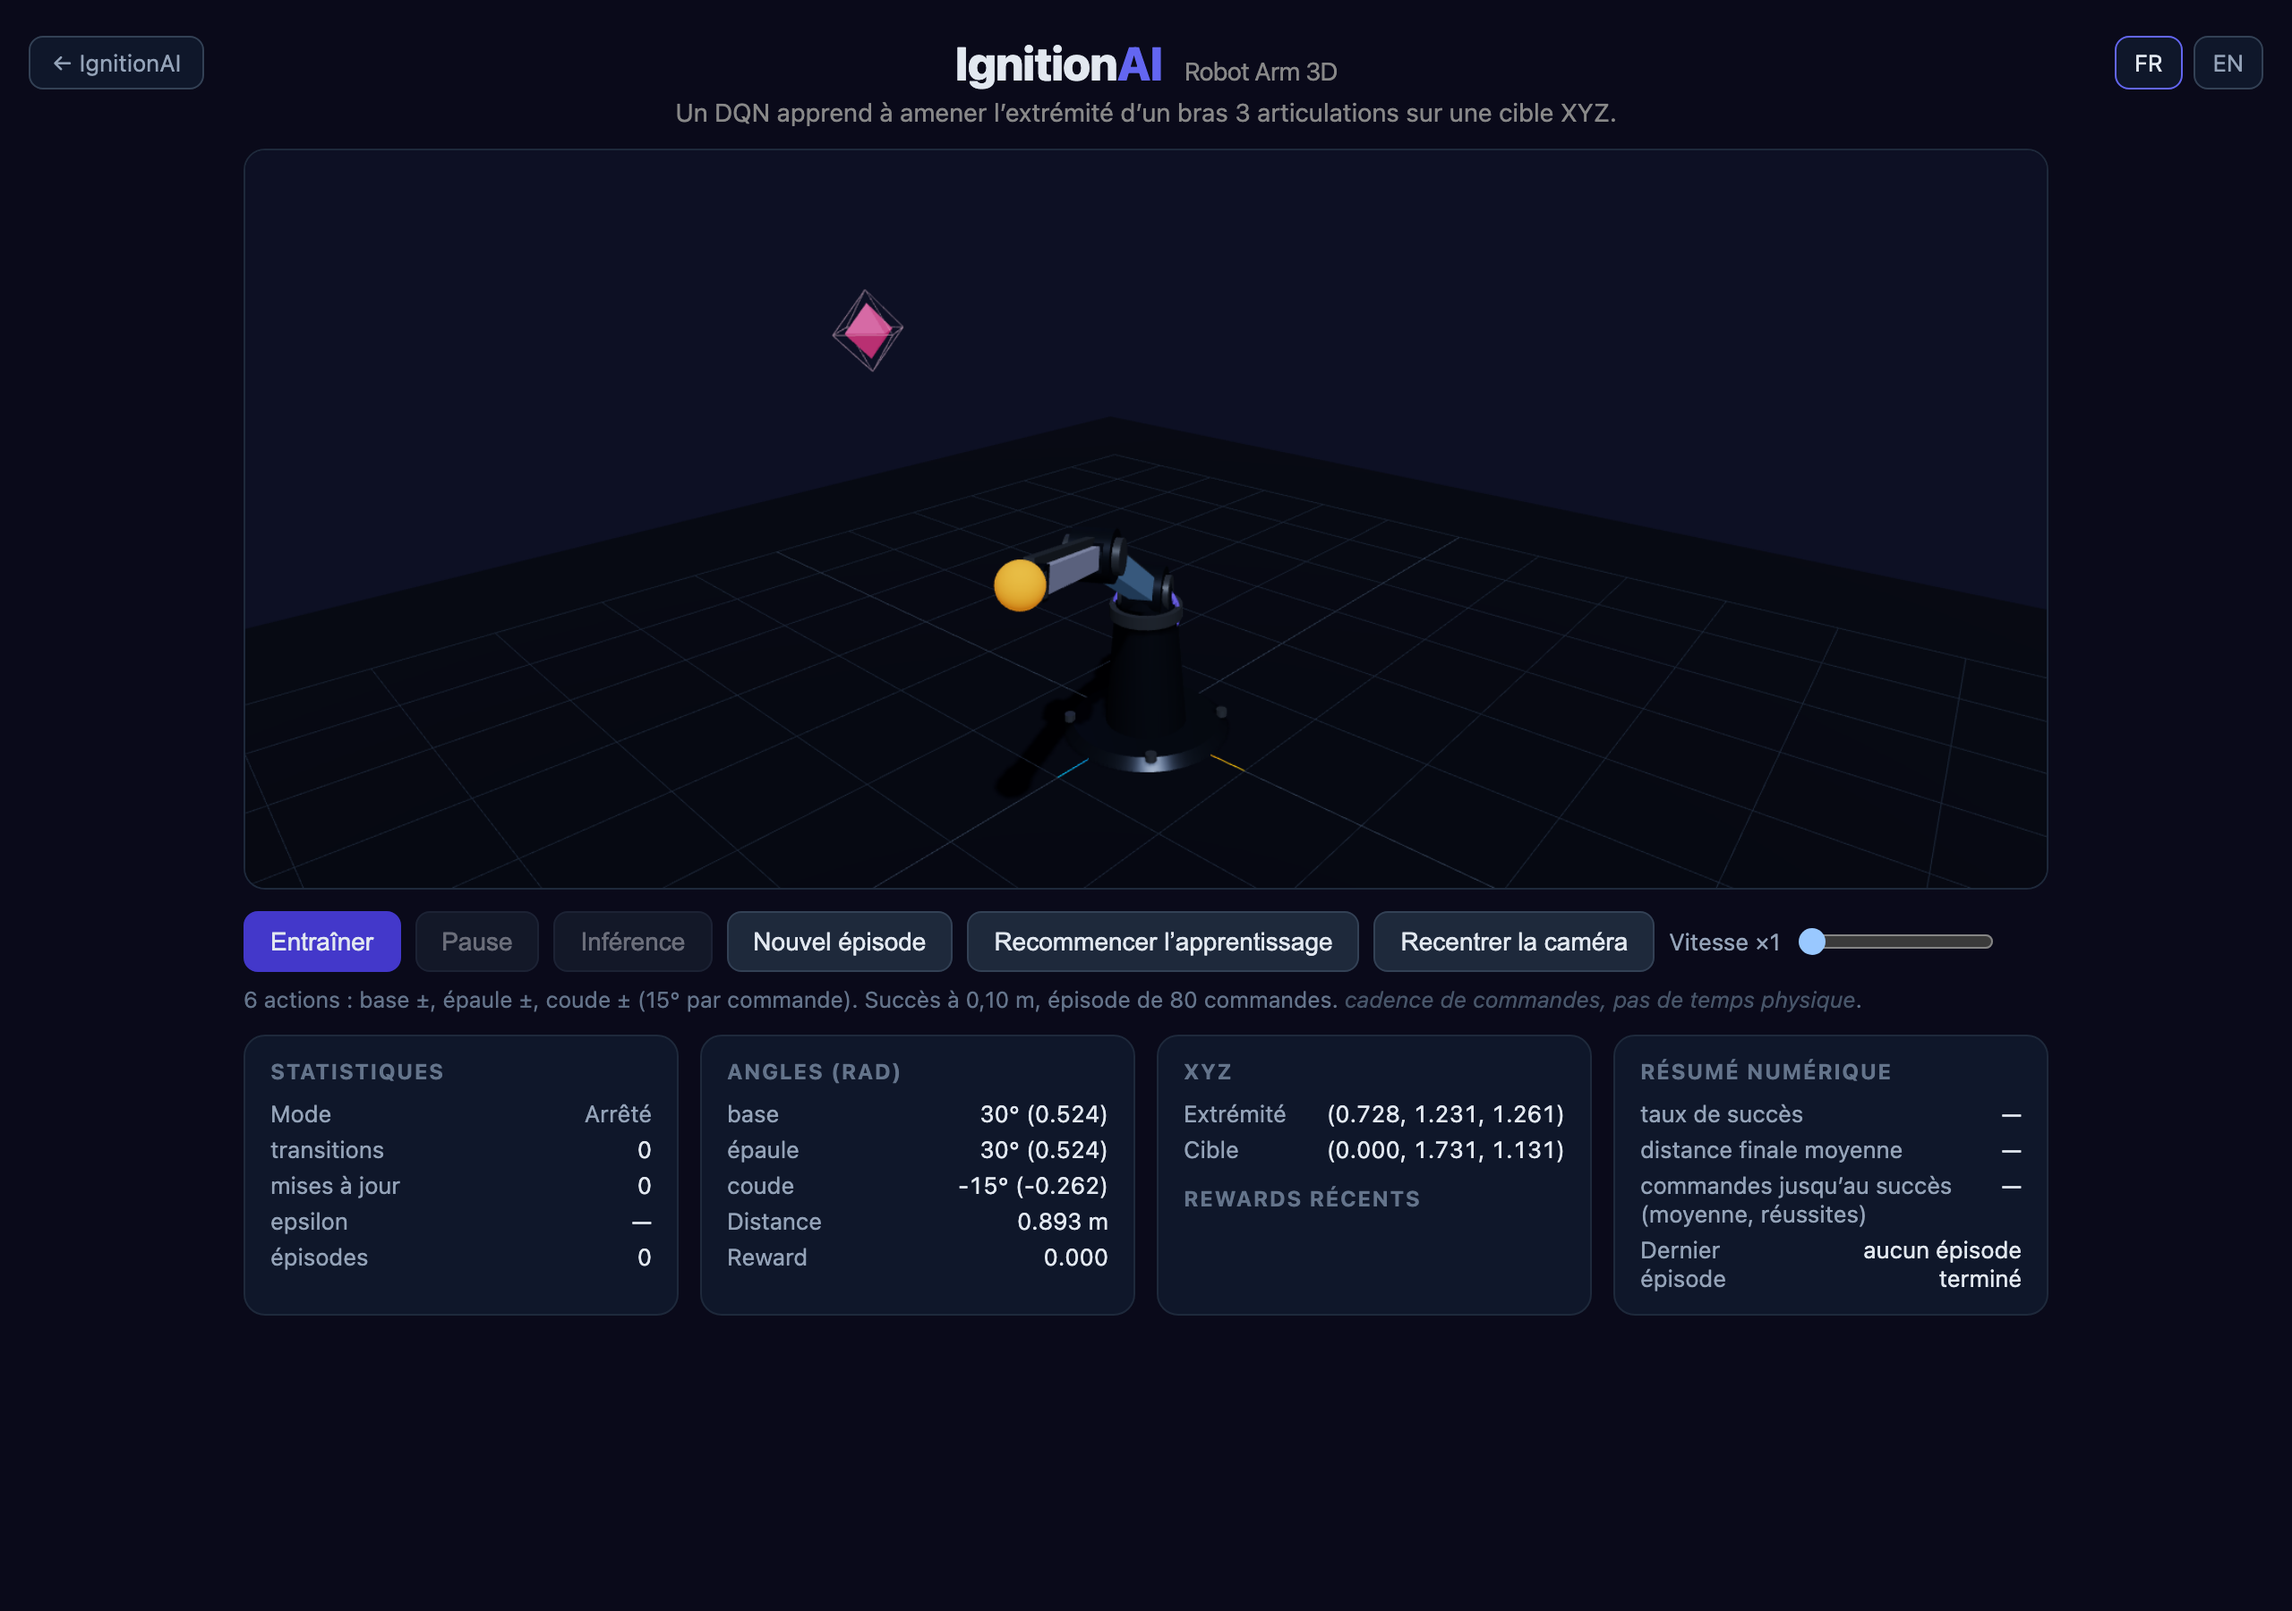
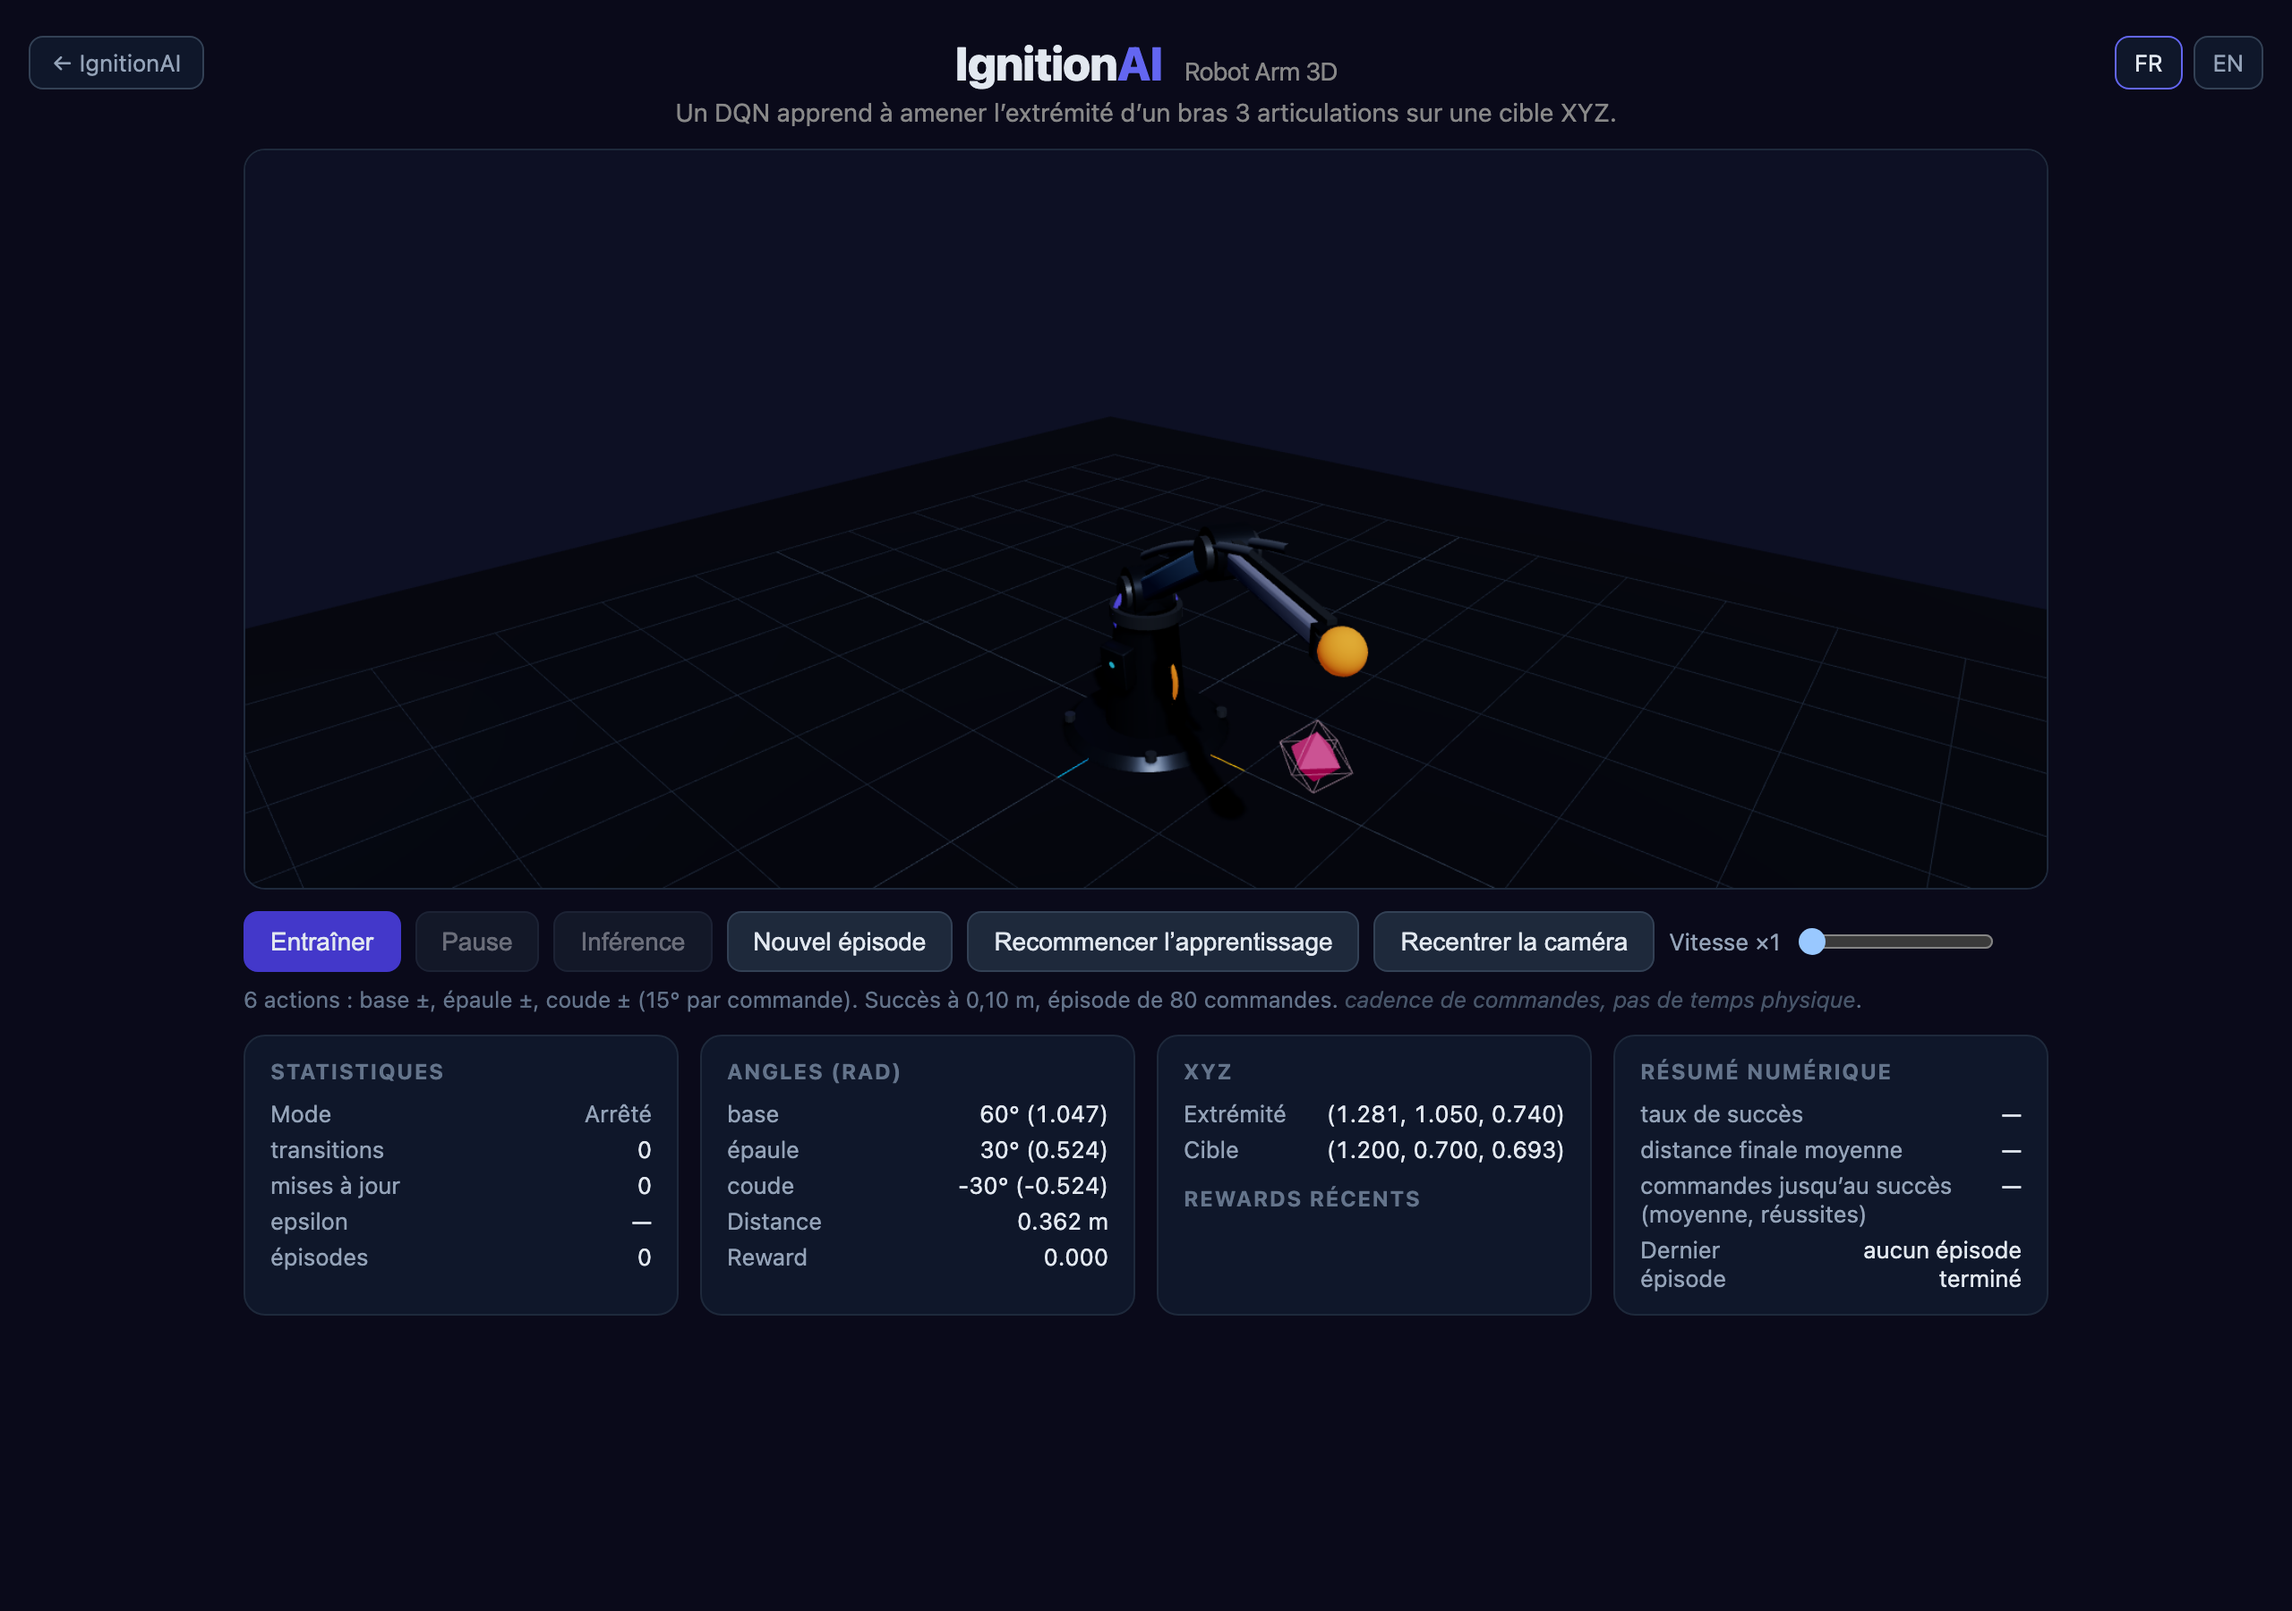
feat(demo-robot-arm): rounded links, flexing elbow cables, control box, fill lighting
- RoundedBox links, elbow cables (tube along a sagging bezier, follow q2),
  pedestal safety ring + control box with status LED, hemisphere + fill lights
- article captures refreshed on the final model (real runs, 0 console errors)

diff --git a/packages/demo-robot-arm/src/Scene3D.tsx b/packages/demo-robot-arm/src/Scene3D.tsx
@@ -1,6 +1,7 @@
 import { useEffect, useRef, type ComponentRef } from 'react';
 import { Canvas } from '@react-three/fiber';
-import { OrbitControls } from '@react-three/drei';
+import { OrbitControls, RoundedBox } from '@react-three/drei';
+import { QuadraticBezierCurve3, Vector3 } from 'three';
 import { L1, L2, PIVOT_Y, SUCCESS_DISTANCE } from './robot-arm-env';
 import { useDemoStore } from './store';
 import { makeT } from './i18n';
@@ -26,14 +27,13 @@ function ServoJoint({ radius = 0.105, length = 0.15 }: { radius?: number; length
   );
 }
 
-/** Rectangular link with a lighter top spine and end collars. */
+/** Rectangular link (rounded edges) with a lighter top spine and end collars. */
 function Link({ length, width, color }: { length: number; width: number; color: string }) {
   return (
     <group>
-      <mesh position={[0, 0, length / 2]} castShadow>
-        <boxGeometry args={[width, width, length]} />
+      <RoundedBox args={[width, width, length]} radius={0.018} smoothness={4} position={[0, 0, length / 2]} castShadow>
         <meshStandardMaterial color={color} metalness={0.45} roughness={0.5} />
-      </mesh>
+      </RoundedBox>
       <mesh position={[0, width / 2 + 0.012, length / 2]} castShadow>
         <boxGeometry args={[width * 0.4, 0.024, length * 0.84]} />
         <meshStandardMaterial {...LIGHT_METAL} />
@@ -45,6 +45,29 @@ function Link({ length, width, color }: { length: number; width: number; color: 
         </mesh>
       ))}
     </group>
+  );
+}
+
+/**
+ * Flexible cable running from segment 1 to segment 2; the sag follows the
+ * elbow angle so it visibly flexes when the joint moves.
+ */
+function ElbowCable({ q2, side }: { q2: number; side: 1 | -1 }) {
+  const a = -q2;
+  const start = new Vector3(side * 0.052, 0.11, 0.22);
+  const end = new Vector3(
+    side * 0.052,
+    0.11 * Math.cos(a) - 0.3 * Math.sin(a),
+    L1 + 0.11 * Math.sin(a) + 0.3 * Math.cos(a),
+  );
+  const mid = start.clone().add(end).multiplyScalar(0.5);
+  mid.y += 0.05 + 0.1 * (1 - Math.cos(q2)); // sag grows as the elbow folds
+  const curve = new QuadraticBezierCurve3(start, mid, end);
+  return (
+    <mesh castShadow>
+      <tubeGeometry args={[curve, 16, 0.016, 8]} />
+      <meshStandardMaterial color="#7d8aa0" metalness={0.3} roughness={0.6} />
+    </mesh>
   );
 }
 
@@ -79,6 +102,20 @@ function Arm() {
         <cylinderGeometry args={[0.145, 0.145, 0.05, 24]} />
         <meshStandardMaterial {...LIGHT_METAL} />
       </mesh>
+      {/* amber safety stripe + control box with status LED */}
+      <mesh position={[0, 0.24, 0]}>
+        <torusGeometry args={[0.155, 0.012, 10, 32]} />
+        <meshStandardMaterial color="#f59e0b" emissive="#b45309" emissiveIntensity={0.55} />
+      </mesh>
+      <group position={[0, 0.34, 0.16]} rotation={[0.12, 0, 0]}>
+        <RoundedBox args={[0.13, 0.17, 0.07]} radius={0.012} smoothness={4} castShadow>
+          <meshStandardMaterial {...DARK_METAL} />
+        </RoundedBox>
+        <mesh position={[0, 0.02, 0.037]}>
+          <circleGeometry args={[0.014, 12]} />
+          <meshStandardMaterial color={reached ? '#4ade80' : '#22d3ee'} emissive={reached ? '#16a34a' : '#0e7490'} emissiveIntensity={1.2} />
+        </mesh>
+      </group>
 
       {/* Arm: yaw (base) → pitch (shoulder) → relative pitch (elbow) */}
       <group position={[0, PIVOT_Y, 0]} rotation={[0, q0, 0]}>
@@ -94,6 +131,8 @@ function Arm() {
         <ServoJoint />
         <group rotation={[-q1, 0, 0]}>
           <Link length={L1} width={0.09} color="#93c5fd" />
+          <ElbowCable q2={q2} side={1} />
+          <ElbowCable q2={q2} side={-1} />
           <group position={[0, 0, L1]}>
             <ServoJoint radius={0.085} length={0.13} />
           </group>
@@ -154,10 +193,10 @@ function SceneContent() {
   return (
     <>
       <color attach="background" args={['#0d1024']} />
-      <ambientLight intensity={0.6} />
+      <hemisphereLight args={['#5b6b9e', '#141824', 0.55]} />
       <directionalLight
         position={[4, 6, 3]}
-        intensity={1.5}
+        intensity={1.4}
         castShadow
         shadow-mapSize={[1024, 1024]}
         shadow-camera-far={20}
@@ -167,6 +206,7 @@ function SceneContent() {
         shadow-camera-bottom={-4}
       />
       <pointLight position={[-3, 3, -2]} intensity={0.25} color="#6366f1" />
+      <pointLight position={[-2, 1.2, 2.5]} intensity={0.35} color="#93c5fd" />
 
       {/* Ground + XYZ frame */}
       <mesh rotation={[-Math.PI / 2, 0, 0]} position={[0, -0.001, 0]} receiveShadow>
